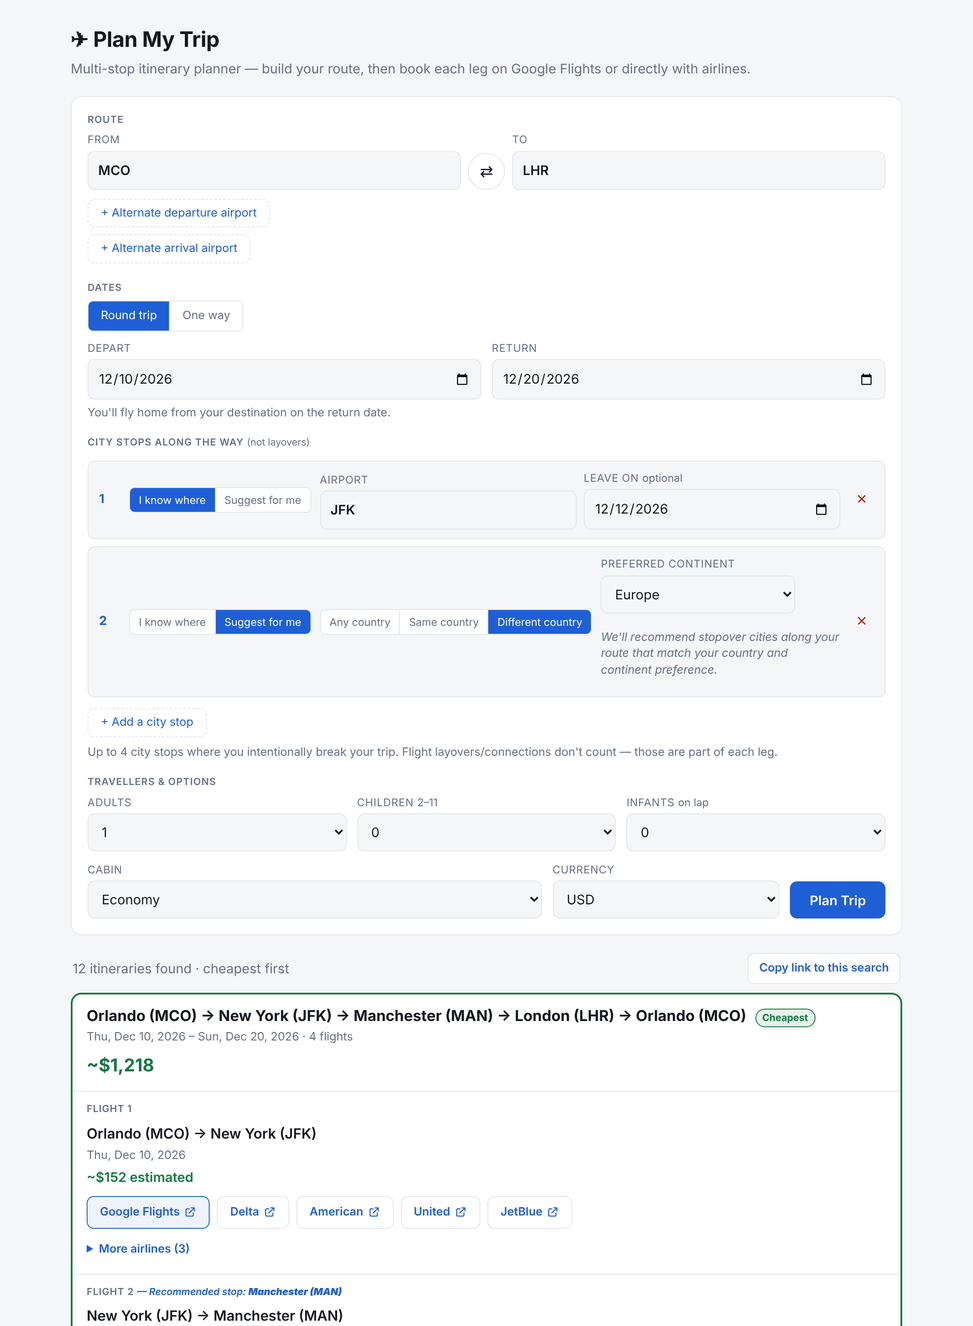
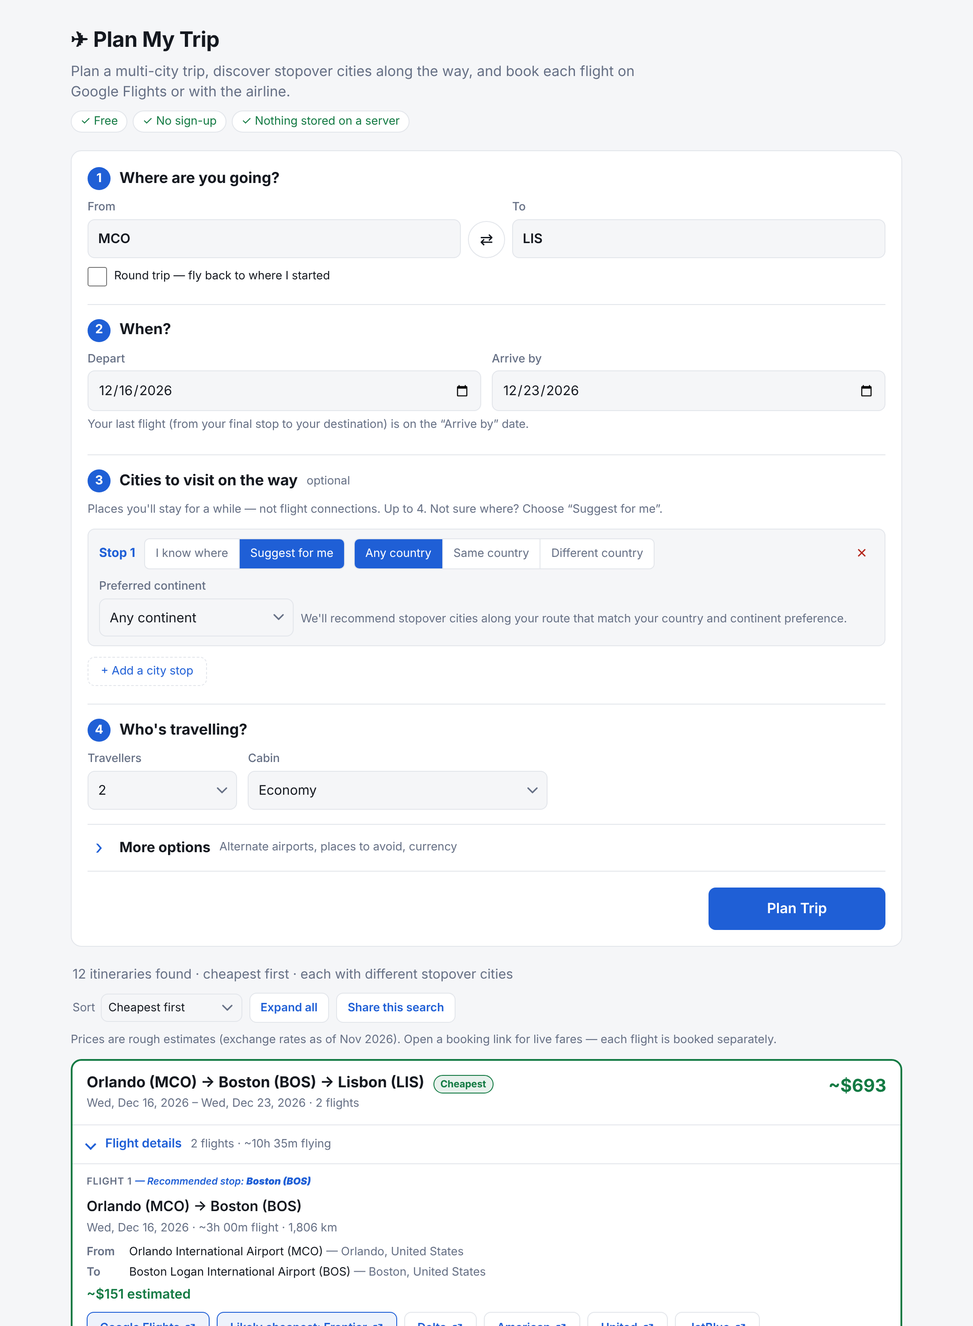
Make the planner form friendlier: numbered steps and a More options section
- Form grouped into four numbered steps (where, when, cities on the way,
  who's travelling) with fieldset/legend headings and sentence-case labels
- Alternate airports, places to avoid and currency move into a collapsible
  More options section; its summary shows how many are in use, and it opens
  for restored searches and alternate-airport errors
- No preset departure airport; example placeholders instead
- Clearer header with tagline and highlights; travellers and cabin share a row
- Plan Trip stays on screen at the bottom on phones
- City stops: controls on one row, fields underneath
- Price disclaimer shown once above the results instead of on every card
- Refreshed README screenshot

Claude-Session: https://claude.ai/code/session_017kXNJsbhpguYiQxKbsSJdW

diff --git a/styles.css b/styles.css
@@ -19,8 +19,6 @@ main { max-width: 980px; margin: auto; padding: 12px 20px 60px; }
 
 form { background: var(--card); border: 1px solid var(--line); border-radius: var(--radius); padding: 18px; }
 
-.section-label { font-size: 11px; text-transform: uppercase; letter-spacing: .06em; color: var(--muted); margin: 16px 0 6px; font-weight: 600; }
-.section-label:first-of-type { margin-top: 0; }
 
 .airport-row { display: flex; gap: 8px; align-items: end; flex-wrap: wrap; margin-bottom: 6px; }
 [hidden] { display: none !important; }
@@ -39,12 +37,12 @@ form { background: var(--card); border: 1px solid var(--line); border-radius: va
 .add-btn { margin: 4px 0; display: inline-block; background: none; border: 1px dashed var(--line); border-radius: 8px; padding: 6px 14px; color: var(--accent); cursor: pointer; font: inherit; font-size: 13px; }
 .add-btn:hover { border-color: var(--accent); background: var(--accent-light); }
 
-.grid-pax { display: grid; gap: 12px; grid-template-columns: repeat(3, minmax(0, 1fr)); align-items: end; }
-.grid-options { display: grid; gap: 12px; grid-template-columns: 2fr 1fr auto; align-items: end; margin-top: 12px; }
-@media (max-width: 760px) { .grid-options { grid-template-columns: 2fr 1fr; } .grid-options .go-field { grid-column: 1 / -1; } .swap { display: none; } .airport-row .field { min-width: 100px; } }
+.grid-pax { display: grid; gap: 12px; grid-template-columns: minmax(0, 1fr) minmax(0, 2fr); max-width: 520px; align-items: end; }
+.grid-currency { max-width: 200px; }
+@media (max-width: 760px) { .swap { display: none; } .airport-row .field { min-width: 100px; } }
 
 .field { min-width: 0; }
-.field label { display: block; font-size: 12px; color: var(--muted); margin-bottom: 4px; text-transform: uppercase; letter-spacing: .04em; }
+.field label { display: block; font-size: 13px; color: var(--muted); margin-bottom: 4px; font-weight: 500; }
 input, select { width: 100%; padding: 10px 11px; border: 1px solid var(--line); border-radius: 8px; background: var(--bg); color: var(--ink); font: inherit; }
 input:focus, select:focus { outline: 2px solid var(--accent); outline-offset: -1px; }
 input.code { font-weight: 600; }
@@ -71,7 +69,7 @@ button:focus-visible, a:focus-visible, summary:focus-visible { outline: 2px soli
 
 /* Segmented radio controls (radios stay focusable for keyboard users) */
 .seg { display: inline-flex; border: 1px solid var(--line); border-radius: 6px; overflow: hidden; }
-.seg label { padding: 5px 10px; cursor: pointer; font-size: 12px; color: var(--muted); background: var(--card); white-space: nowrap; position: relative; }
+.seg label { padding: 7px 12px; cursor: pointer; font-size: 13px; color: var(--muted); background: var(--card); white-space: nowrap; position: relative; }
 .seg label + label { border-left: 1px solid var(--line); }
 .seg input { position: absolute; opacity: 0; width: 1px; height: 1px; margin: 0; pointer-events: none; }
 .seg label:has(input:checked) { background: var(--accent); color: var(--accent-ink); }
@@ -86,12 +84,13 @@ button:focus-visible, a:focus-visible, summary:focus-visible { outline: 2px soli
 .stops-section { margin-top: 12px; }
 .stop-row { display: flex; gap: 10px; align-items: center; padding: 10px 12px; border: 1px solid var(--line); border-radius: 8px; margin-bottom: 8px; flex-wrap: wrap; background: var(--bg); }
 .stop-num { font-weight: 700; color: var(--accent); font-size: 14px; min-width: 24px; }
-.stop-fields { display: flex; gap: 8px; align-items: end; flex: 1; min-width: 200px; flex-wrap: wrap; }
+.stop-num::before { content: "Stop "; }
+.stop-fields { display: flex; gap: 8px; align-items: end; flex: 1 1 100%; order: 1; min-width: 200px; flex-wrap: wrap; }
 .stop-fields .field { flex: 1; min-width: 100px; }
 .stop-fields .stop-continent { flex: 0 0 220px; }
 .itin-note { color: var(--accent); }
-.stop-suggest-label { color: var(--muted); font-size: 13px; font-style: italic; padding: 10px 0; }
-.remove-stop { background: none; border: none; color: var(--err); cursor: pointer; font-size: 20px; padding: 4px 8px; }
+.stop-suggest-label { color: var(--muted); font-size: 13px; padding: 10px 0; flex: 1 1 240px; }
+.remove-stop { margin-left: auto; background: none; border: none; color: var(--err); cursor: pointer; font-size: 20px; padding: 4px 8px; }
 
 /* Places to avoid */
 .avoid-row { display: flex; gap: 8px; align-items: stretch; }
@@ -190,7 +189,7 @@ input[type="date"]::-webkit-date-and-time-value { text-align: left; }
 
   /* 16px inputs stop iOS Safari from zooming in on focus */
   input, select { font-size: 16px; padding: 11px 10px; min-height: 46px; }
-  .field label { font-size: 11px; }
+  .field label { font-size: 13px; }
 
   .airport-row .field { min-width: 0; flex: 1 1 0; }
   .grid-dates { gap: 8px; }
@@ -206,7 +205,6 @@ input[type="date"]::-webkit-date-and-time-value { text-align: left; }
   /* Stop cards: stack controls, full-width segmented toggles */
   .stop-row { position: relative; flex-direction: column; align-items: stretch; gap: 10px; padding: 12px; }
   .stop-num { min-width: 0; padding-right: 48px; }
-  .stop-num::before { content: "Stop "; }
   .remove-stop { position: absolute; top: 2px; right: 2px; }
   .seg { display: flex; width: 100%; align-self: stretch; }
   .seg label { flex: 1 1 0; text-align: center; padding: 10px 4px; min-height: 44px; font-size: 13px; white-space: normal; line-height: 1.2; display: flex; align-items: center; justify-content: center; }
@@ -215,9 +213,11 @@ input[type="date"]::-webkit-date-and-time-value { text-align: left; }
   .stop-suggest-label { padding: 2px 0; }
   .stop-fields .stop-continent { flex: 1 1 100%; }
 
-  .grid-pax { gap: 8px; }
-  .grid-options { grid-template-columns: minmax(0, 2fr) minmax(90px, 1fr); gap: 10px; }
-  .grid-options .go-field { grid-column: 1 / -1; }
+  .grid-pax { gap: 8px; max-width: none; }
+  .grid-currency { max-width: none; }
+  .step { padding: 14px 0; }
+  .step legend { font-size: 16px; }
+  .perks li { font-size: 12px; }
   .ghost-btn { min-height: 44px; flex: 1 1 auto; }
   .bar .ghost-btn { flex: 0 1 auto; }
   .more-airlines summary { min-height: 44px; display: flex; align-items: center; }
@@ -250,7 +250,7 @@ input[type="date"]::-webkit-date-and-time-value { text-align: left; }
 
 @media (max-width: 360px) {
   .grid-dates { grid-template-columns: 1fr; }
-  .grid-options { grid-template-columns: 1fr; }
+  .grid-pax { grid-template-columns: 1fr; }
   .stop-fields { flex-direction: column; align-items: stretch; }
 }
 
@@ -301,3 +301,35 @@ input[type="date"]::-webkit-date-and-time-value { text-align: left; }
   .guide tbody td:nth-of-type(3)::before { content: "Est. fare from: "; color: var(--muted); }
   .guide td a { min-height: 44px; display: inline-flex; align-items: center; }
 }
+
+/* Form steps */
+.hero .tagline { font-size: 16px; color: var(--muted); margin: 6px 0 10px; max-width: 640px; }
+.perks { list-style: none; display: flex; flex-wrap: wrap; gap: 6px; margin: 0; padding: 0; }
+.perks li { font-size: 13px; color: var(--good); background: var(--card); border: 1px solid var(--line); border-radius: 999px; padding: 2px 10px; }
+.perks li::before { content: "✓ "; }
+.step { border: 0; margin: 0; padding: 16px 0; min-width: 0; border-bottom: 1px solid var(--line); }
+.step:first-of-type { padding-top: 0; }
+.step legend { float: left; width: 100%; display: flex; align-items: center; gap: 10px; padding: 0; margin-bottom: 10px; font-size: 17px; font-weight: 650; color: var(--ink); }
+.step legend .label-note { font-size: 13px; color: var(--muted); font-weight: 400; }
+.step-num { display: inline-grid; place-items: center; width: 26px; height: 26px; border-radius: 50%; background: var(--accent); color: var(--accent-ink); font-size: 14px; font-weight: 700; flex: none; }
+.step legend + * { clear: both; }
+.step-hint { margin-top: 0; }
+.sub-heading { font-size: 14px; font-weight: 600; margin: 16px 0 4px; }
+.sub-heading:first-child { margin-top: 4px; }
+.more-options { border-bottom: 1px solid var(--line); }
+.more-options > summary { cursor: pointer; min-height: 52px; display: flex; align-items: center; flex-wrap: wrap; gap: 4px 10px; padding: 8px 0; list-style: none; }
+.more-options > summary::-webkit-details-marker { display: none; }
+.more-options > summary::before { content: "›"; display: inline-block; width: 26px; text-align: center; font-size: 22px; line-height: 1; color: var(--accent); transition: transform .15s; }
+.more-options[open] > summary::before { transform: rotate(90deg); }
+.more-title { font-weight: 650; font-size: 16px; }
+.more-options.in-use #more-summary { color: var(--accent); font-weight: 600; }
+.more-body { padding: 0 0 16px 36px; }
+.go-row { margin-top: 18px; display: flex; justify-content: flex-end; }
+button.go { min-width: 200px; height: 48px; font-size: 16px; }
+.results-note { color: var(--muted); font-size: 13px; margin: 0 0 12px; }
+@media (max-width: 600px) {
+  .more-body { padding-left: 0; }
+  .go-row { position: sticky; bottom: 0; margin: 12px -14px -14px; padding: 12px 14px max(12px, env(safe-area-inset-bottom)); background: var(--card); border-top: 1px solid var(--line); border-radius: 0 0 var(--radius) var(--radius); z-index: 5; }
+  button.go { width: 100%; }
+}
+@media (prefers-reduced-motion: reduce) { .more-options > summary::before { transition: none; } }

diff --git a/index.html b/index.html
@@ -43,75 +43,91 @@
 <script defer src="js/app.js"></script>
 </head>
 <body>
-<header>
-  <h1>✈ Plan My Trip</h1>
-  <p>Multi-stop itinerary planner — build your route, then book each leg on Google Flights or directly with airlines.</p>
+<header class="hero">
+  <h1><span aria-hidden="true">✈</span> Plan My Trip</h1>
+  <p class="tagline">Plan a multi-city trip, discover stopover cities along the way, and book each flight on Google Flights or with the airline.</p>
+  <ul class="perks" aria-label="Highlights"><li>Free</li><li>No sign-up</li><li>Nothing stored on a server</li></ul>
 </header>
 <main>
   <form id="f" autocomplete="off" novalidate>
-    <!-- Route -->
-    <div class="section-label" id="route-label">Route</div>
-    <div class="airport-row">
-      <div class="field ac-wrap">
-        <label for="origin">From</label>
-        <input id="origin" class="code" placeholder="City or code" required value="MCO" autocapitalize="words" spellcheck="false">
-        <div class="ac-list" id="origin-ac"></div>
+    <fieldset class="step">
+      <legend><span class="step-num" aria-hidden="true">1</span>Where are you going?</legend>
+      <div class="airport-row">
+        <div class="field ac-wrap">
+          <label for="origin">From</label>
+          <input id="origin" class="code" placeholder="e.g. New York" required autocapitalize="words" spellcheck="false">
+          <div class="ac-list" id="origin-ac"></div>
+        </div>
+        <button type="button" class="swap" id="swap" aria-label="Swap departure and arrival airports" title="Swap airports">⇄</button>
+        <div class="field ac-wrap" id="destination-field">
+          <label for="destination">To</label>
+          <input id="destination" class="code" placeholder="e.g. Lisbon" required autocapitalize="words" spellcheck="false">
+          <div class="ac-list" id="destination-ac"></div>
+        </div>
       </div>
-      <button type="button" class="swap" id="swap" aria-label="Swap departure and arrival airports" title="Swap airports">⇄</button>
-      <div class="field ac-wrap" id="destination-field">
-        <label for="destination">To</label>
-        <input id="destination" class="code" placeholder="City or code" required autocapitalize="words" spellcheck="false">
-        <div class="ac-list" id="destination-ac"></div>
+      <label class="check-row"><input type="checkbox" id="return-home"><span>Round trip — fly back to where I started</span></label>
+    </fieldset>
+
+    <fieldset class="step">
+      <legend><span class="step-num" aria-hidden="true">2</span>When?</legend>
+      <div class="grid-dates">
+        <div class="field"><label for="depart">Depart</label><input id="depart" type="date" required></div>
+        <div class="field" id="end-field"><label for="ret" id="end-label">Return</label><input id="ret" type="date"></div>
       </div>
-    </div>
-    <label class="check-row"><input type="checkbox" id="return-home"><span>My final destination is the same as where I'm departing from</span></label>
-    <div id="dep-alts" class="alt-list"></div>
-    <button type="button" class="add-btn" id="add-dep-alt">+ Alternate departure airport</button>
-    <div id="arr-alts" class="alt-list"></div>
-    <button type="button" class="add-btn" id="add-arr-alt">+ Alternate arrival airport</button>
+      <div class="sub hint" id="date-hint"></div>
+    </fieldset>
 
-    <!-- Dates -->
-    <div class="section-label">Dates</div>
-    <div class="grid-dates">
-      <div class="field"><label for="depart">Depart</label><input id="depart" type="date" required></div>
-      <div class="field" id="end-field"><label for="ret" id="end-label">Return</label><input id="ret" type="date"></div>
-    </div>
-    <div class="sub hint" id="date-hint"></div>
+    <fieldset class="step">
+      <legend><span class="step-num" aria-hidden="true">3</span>Cities to visit on the way <span class="label-note">optional</span></legend>
+      <div class="sub hint step-hint">Places you'll stay for a while — not flight connections. Up to 4. Not sure where? Choose “Suggest for me”.</div>
+      <div class="stops-section" id="stops-section"></div>
+      <button type="button" class="add-btn" id="add-stop">+ Add a city stop</button>
+    </fieldset>
 
-    <!-- Stops -->
-    <div class="section-label">City stops along the way <span class="label-note">(not layovers)</span></div>
-    <div class="stops-section" id="stops-section"></div>
-    <button type="button" class="add-btn" id="add-stop">+ Add a city stop</button>
-    <div class="sub hint">Up to 4 city stops where you intentionally break your trip. Flight layovers/connections don't count — those are part of each leg.</div>
-
-    <!-- Places to avoid -->
-    <div class="section-label" id="avoid-label">Places to avoid <span class="label-note">(optional)</span></div>
-    <div class="avoid-row">
-      <div class="field ac-wrap">
-        <label for="avoid-input" class="visually-hidden">Add a city, airport or country to avoid</label>
-        <input id="avoid-input" placeholder="City, airport or country" autocapitalize="words" spellcheck="false" aria-describedby="avoid-hint avoid-error">
-        <div class="ac-list" id="avoid-ac"></div>
+    <fieldset class="step">
+      <legend><span class="step-num" aria-hidden="true">4</span>Who's travelling?</legend>
+      <div class="grid-pax">
+        <div class="field"><label for="adults">Travellers</label><select id="adults"></select></div>
+        <div class="field"><label for="seat">Cabin</label>
+          <select id="seat">
+            <option value="economy">Economy</option><option value="premium-economy">Premium economy</option>
+            <option value="business">Business</option><option value="first">First</option>
+          </select></div>
       </div>
-      <button type="button" class="ghost-btn" id="avoid-add">Add</button>
-    </div>
-    <div class="sub field-error" id="avoid-error" role="alert"></div>
-    <ul id="avoid-list" class="chips" aria-labelledby="avoid-label" hidden></ul>
-    <div class="sub hint" id="avoid-hint">Avoided cities and countries are never suggested as stops or alternative airports. Choosing an airport avoids its whole city. Connections inside a flight are set by the airline — check them when booking.</div>
+    </fieldset>
 
-    <!-- Travellers & options -->
-    <div class="section-label">Travellers &amp; options</div>
-    <div class="grid-pax">
-      <div class="field"><label for="adults">Travellers</label><select id="adults"></select></div>
-    </div>
-    <div class="grid-options">
-      <div class="field"><label for="seat">Cabin</label>
-        <select id="seat">
-          <option value="economy">Economy</option><option value="premium-economy">Premium economy</option>
-          <option value="business">Business</option><option value="first">First</option>
-        </select></div>
-      <div class="field"><label for="currency">Currency</label><select id="currency"></select></div>
-      <div class="field go-field">
-        <button class="go" id="go" type="submit" disabled>Loading airports…</button></div>
+    <details class="more-options" id="more-options">
+      <summary><span class="more-title">More options</span> <span class="sub" id="more-summary">Alternate airports, places to avoid, currency</span></summary>
+      <div class="more-body">
+        <div class="sub-heading">Alternate airports</div>
+        <div class="sub hint">Every combination is compared — handy for cities with several airports.</div>
+        <div id="dep-alts" class="alt-list"></div>
+        <button type="button" class="add-btn" id="add-dep-alt">+ Alternate departure airport</button>
+        <div id="arr-alts" class="alt-list"></div>
+        <button type="button" class="add-btn" id="add-arr-alt">+ Alternate arrival airport</button>
+
+        <div class="sub-heading" id="avoid-label">Places to avoid</div>
+        <div class="avoid-row">
+          <div class="field ac-wrap">
+            <label for="avoid-input" class="visually-hidden">Add a city, airport or country to avoid</label>
+            <input id="avoid-input" placeholder="City, airport or country" autocapitalize="words" spellcheck="false" aria-describedby="avoid-hint avoid-error">
+            <div class="ac-list" id="avoid-ac"></div>
+          </div>
+          <button type="button" class="ghost-btn" id="avoid-add">Add</button>
+        </div>
+        <div class="sub field-error" id="avoid-error" role="alert"></div>
+        <ul id="avoid-list" class="chips" aria-labelledby="avoid-label" hidden></ul>
+        <div class="sub hint" id="avoid-hint">Never suggested as stops or alternative airports. Choosing an airport avoids its whole city.</div>
+
+        <div class="sub-heading">Currency</div>
+        <div class="grid-currency">
+          <div class="field"><label for="currency" class="visually-hidden">Currency</label><select id="currency"></select></div>
+        </div>
+      </div>
+    </details>
+
+    <div class="go-row">
+      <button class="go" id="go" type="submit" disabled>Loading airports…</button>
     </div>
   </form>
 

diff --git a/js/app.js b/js/app.js
@@ -182,7 +182,7 @@ function renderAlts(prefix) {
     </div>`).join("");
   container.querySelectorAll("input").forEach((inp) => {
     const i = +inp.dataset.idx;
-    setupAutocomplete(inp, $(`${prefix}-alt-ac-${i}`), (v) => { arr[i] = v; });
+    setupAutocomplete(inp, $(`${prefix}-alt-ac-${i}`), (v) => { arr[i] = v; updateMoreSummary(); });
   });
   container.querySelectorAll(".remove-alt").forEach((btn) => btn.addEventListener("click", () => {
     arr.splice(+btn.dataset.idx, 1); renderAlts(prefix);
@@ -190,6 +190,7 @@ function renderAlts(prefix) {
   }));
   $(`add-${prefix}-alt`).hidden = arr.length >= MAX_ALTS;
   if (prefix === "arr") updateReturnHome();
+  updateMoreSummary();
 }
 $("add-dep-alt").addEventListener("click", () => { depAlts.push(""); renderAlts("dep"); $(`dep-alt-${depAlts.length - 1}`).focus(); });
 $("add-arr-alt").addEventListener("click", () => { arrAlts.push(""); renderAlts("arr"); $(`arr-alt-${arrAlts.length - 1}`).focus(); });
@@ -257,6 +258,14 @@ $("add-stop").addEventListener("click", () => {
 // ---------------------------------------------------------------------------
 // Places to avoid
 // ---------------------------------------------------------------------------
+/** "More options" summary: what's set inside it, so nothing hidden there is forgotten. */
+function updateMoreSummary() {
+  const n = depAlts.filter((a) => a.trim()).length + arrAlts.filter((a) => a.trim()).length + avoid.length + ($("currency").value !== "USD" ? 1 : 0);
+  $("more-summary").textContent = n ? `${n} in use` : "Alternate airports, places to avoid, currency";
+  $("more-options").classList.toggle("in-use", n > 0);
+}
+$("currency").addEventListener("change", updateMoreSummary);
+
 function renderAvoid() {
   $("avoid-list").innerHTML = avoid.map((x, i) => `
     <li class="chip"><span>${esc(dataReady ? avoidLabel(airportMap, airports, x) : x)}</span>
@@ -265,6 +274,7 @@ function renderAvoid() {
   const full = avoid.length >= MAX_AVOID;
   $("avoid-input").disabled = $("avoid-add").disabled = full;
   $("avoid-input").placeholder = full ? `Up to ${MAX_AVOID} places` : "City, airport or country";
+  updateMoreSummary();
 }
 
 function addAvoid(text) {
@@ -323,6 +333,7 @@ function applyState(s) {
   renderStops();
   avoid = [...(s.avoid || [])]; renderAvoid();
   updateReturnHome();
+  if (s.depAlts.length || s.arrAlts.length || avoid.length || s.currency !== "USD") $("more-options").open = true;
 }
 
 const scrollBehavior = () => (matchMedia("(prefers-reduced-motion: reduce)").matches ? "auto" : "smooth");
@@ -373,7 +384,10 @@ function plan() {
   const dateErr = s.depart && validateStopDates(s.depart, s.end, s.stops.map((st) => (st.mode === "fixed" ? st.date : "")), endUsed());
   if (dateErr) errors.push(dateErr);
 
-  if (errors.length) { showBanner(errors); $("banner").scrollIntoView({ behavior: scrollBehavior(), block: "center" }); return; }
+  if (errors.length) {
+    if (depA.length || arrA.length) $("more-options").open = true; // errors may name an alternate airport
+    showBanner(errors); $("banner").scrollIntoView({ behavior: scrollBehavior(), block: "center" }); return;
+  }
 
   // Show the resolved codes so the user sees what was matched.
   $("origin").value = origin; if (dest) $("destination").value = dest;
@@ -454,9 +468,10 @@ function renderItineraries(found, opts) {
     <div class="bar-actions">
       ${sortSelect}
       <button type="button" class="ghost-btn" data-action="toggle-all" aria-controls="results">Expand all</button>
-      <button type="button" class="ghost-btn" data-action="share">Copy link to this search</button>
+      <button type="button" class="ghost-btn" data-action="share">Share this search</button>
     </div>
-  </div>`;
+  </div>
+  <p class="results-note">Prices are rough estimates (exchange rates as of ${esc(RATES_AS_OF)}). Open a booking link for live fares — each flight is booked separately.</p>`;
 
   itineraries.forEach((itin, idx) => {
     const cheapest = itineraries.length > 1 && itin.totalCost === cheapestCost && itineraries.findIndex((it) => it.totalCost === cheapestCost) === idx;
@@ -511,7 +526,6 @@ function renderItineraries(found, opts) {
           <button type="button" class="ghost-btn" data-action="copy" data-idx="${idx}">Copy as text</button>
           <button type="button" class="ghost-btn" data-action="ics" data-idx="${idx}">Add to calendar (.ics)</button>
         </div>
-        <div class="sub">Estimates are approximate (exchange rates as of ${esc(RATES_AS_OF)}) — open the links for live prices. Each flight is booked separately.</div>
       </div></article>`;
   });
   $("results").innerHTML = html;

diff --git a/PROJECT.md b/PROJECT.md
@@ -8,7 +8,8 @@ A fully static trip planning tool. Build multi-stop itineraries, get stopover re
 
 ## Features
 
-- **Return home option**: Tick "My final destination is the same as where I'm departing from" to end the trip back at your departure airport — the arrival field is hidden and the flight home from your last stop is on the "Return" date. Otherwise the last leg to your destination flies on the "Arrive by" date
+- **Step-by-step form**: four numbered steps — where, when, cities on the way, who's travelling — then **Plan Trip** (kept on screen at the bottom on phones). Alternate airports, places to avoid and currency sit in a collapsible **More options** section whose summary shows how many are in use; it opens by itself when a shared link or an error needs it
+- **Return home option**: Tick "Round trip — fly back to where I started" to end the trip back at your departure airport — the arrival field is hidden and the flight home from your last stop is on the "Return" date. Otherwise the last leg to your destination flies on the "Arrive by" date
 - **Multi-stop trips**: Up to 4 city stops between departure and arrival, each either an airport you choose (with an optional "leave on" date) or "Suggest for me"
 - **Stop suggestions**: Recommends hub cities (from 110 hubs) with the least detour between the neighbouring points of your route. On-route hubs (≤30% detour) are preferred; the allowed detour widens (60%, 100%, 200%) only when needed to find enough matches. Several suggested stops get distinct cities, ordered so the route never doubles back. A suggested stop is always at least 150 km from the airports either side of it (never JFK → Newark). If none fits (e.g. very short trips), you're told why
 - **No repeated stopovers across itineraries**: every itinerary in a search gets its own suggested stop cities — a city shown as a stop in one result (counting all its airports, e.g. NRT/HND) never appears as a suggested stop in another. Fresh stops never widen the detour beyond what the best choices needed, so short or long multi-stop trips may show fewer results rather than far-off stopovers — and a message says why and how to get more
